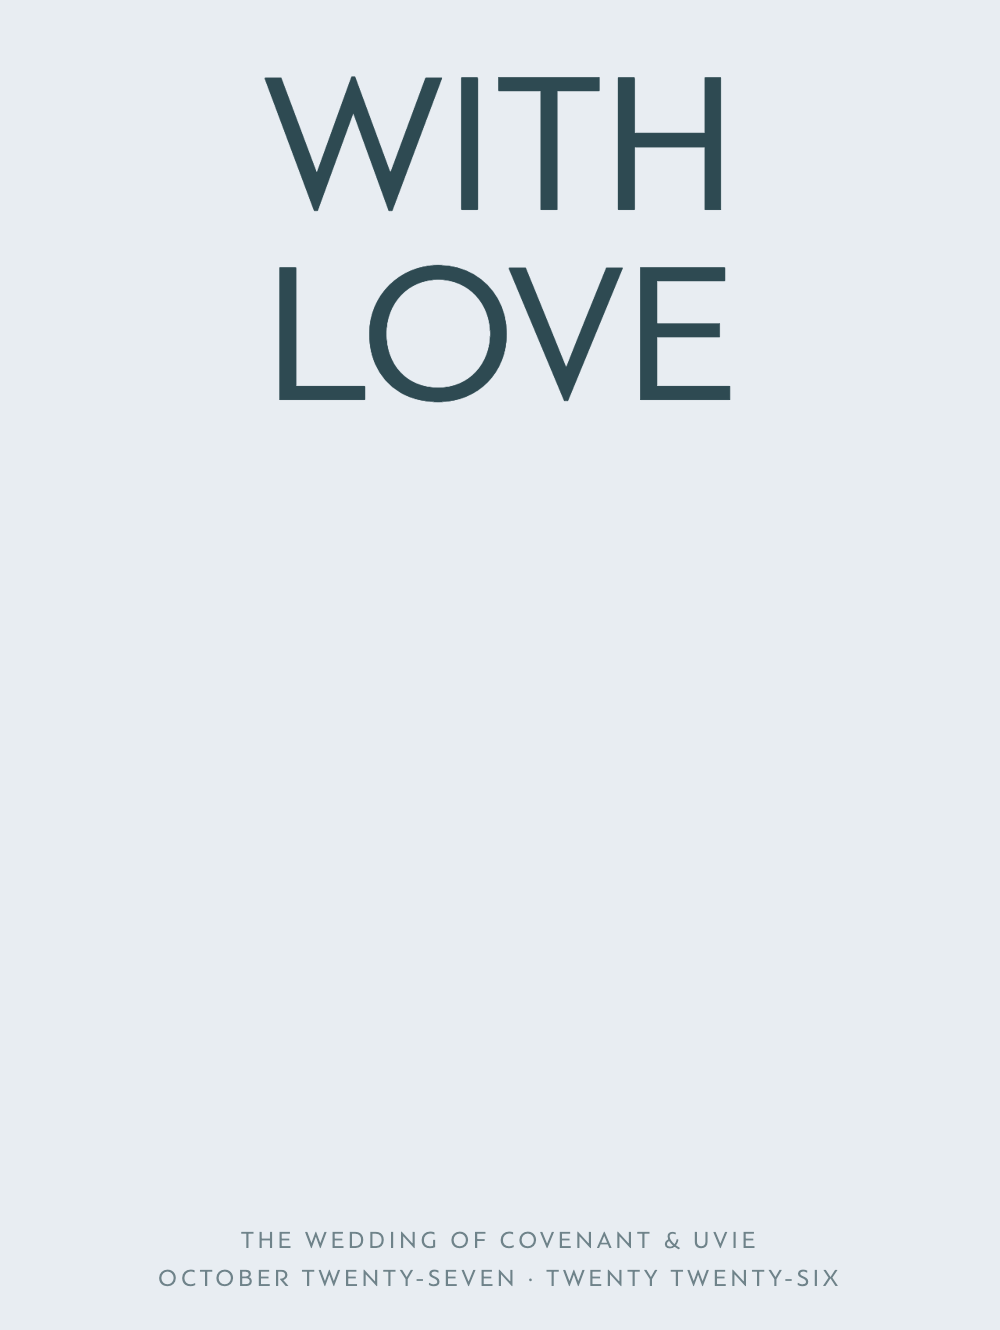
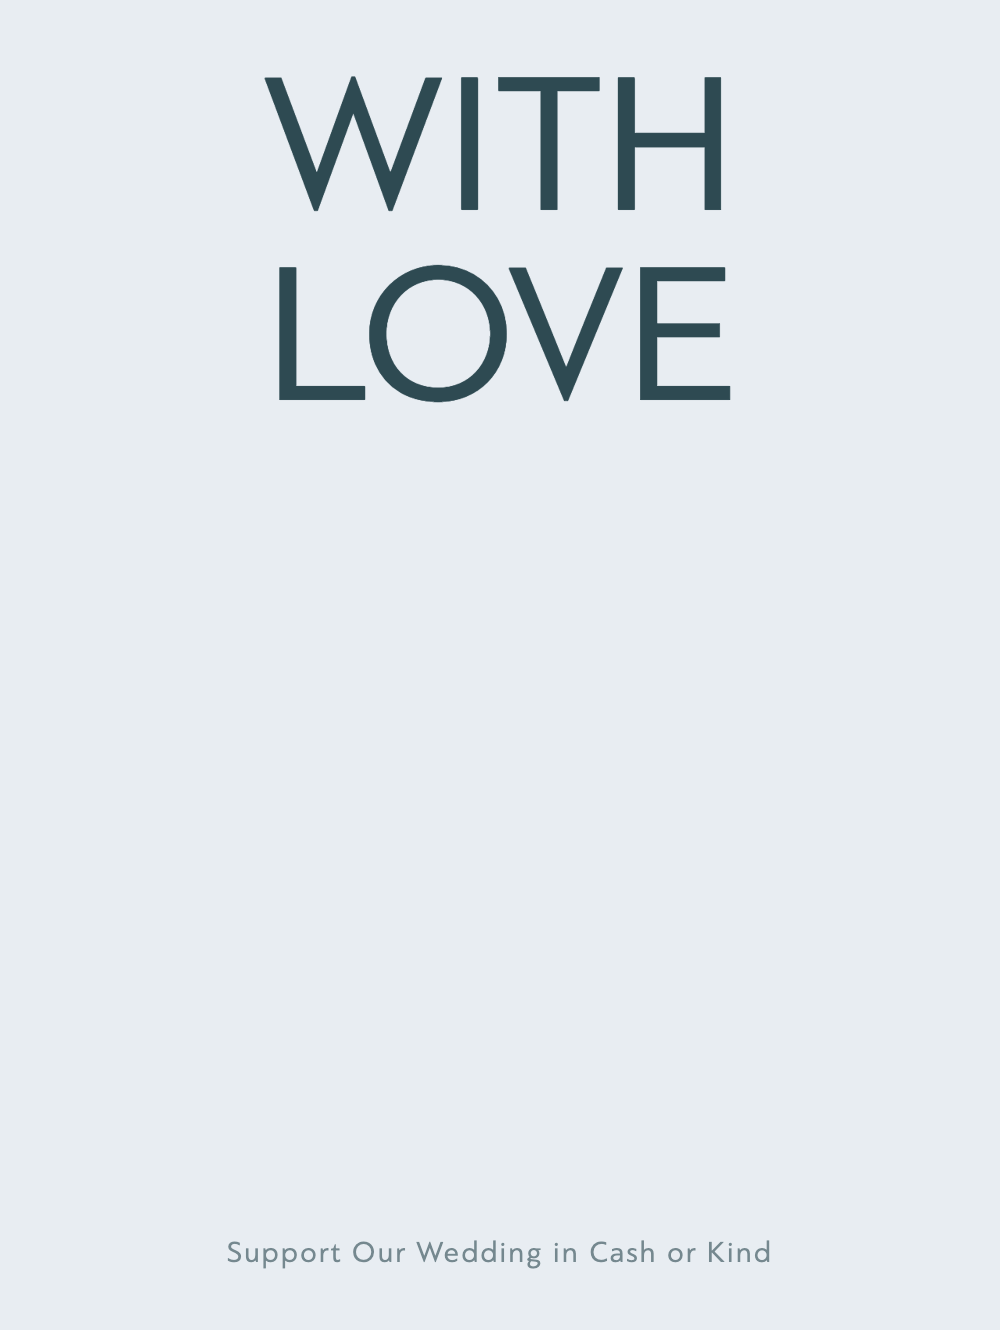
feat(home): card copy that says what each chapter is, and a welcome you can read
Five notes, and three of them turned out to be real bugs rather than tweaks.

"A love story in chapters" is out of the nav. The string stays in site.config.js
because the docs still describe the site that way; nothing renders it.

EVERY CARD FACE CARRIES ITS OWN LINE NOW — Our Journey So Far, Wedding Details:
Times and Dates, Wedding Photos & Videos, Support Our Wedding in Cash or Kind —
and In Frames' centre tagline is MAGICAL MOMENTS: PICTURES & VIDEOS WORTH a
THOUSAND WORDS.

⚠ That change is also how a WRONG DATE came off the homepage. The new line
replaced two generic lines printed on all four cards, the second of which read
"OCTOBER TWENTY-SEVEN · TWENTY TWENTY-SIX" — a date superseded twice over, spelled
out in a style the user had explicitly rejected on the Big Day. It is baked into a
PNG, so every date sweep of the source missed it, and it took opening the card art
to see. Card copy lives in scripts/gen-textures.mjs; re-run it after any copy
change.

⚠ THE WELCOME PANEL SHOWED NOTHING, and it had been open as a LOW-priority issue
since May. --accent and --accentLight both defaulted to the literal keyword gray,
so the panel rendered rgb(128,128,128) on rgb(128,128,128) across the whole
homepage. Two identical values is an invisible element, not a low-contrast one —
it had been graded by how the cause read ("gray-on-gray") rather than by what a
visitor saw, which was an empty screen. The html defaults are the site's real
[…]

Changed region(s): [[0.217, 0.9248, 0.775, 0.9865], [0.806, 0.9556, 0.837, 0.9865], [0.155, 0.9556, 0.186, 0.9865]]

diff --git a/components/SiteNav.vue b/components/SiteNav.vue
@@ -39,19 +39,22 @@
     <!-- Center logo -->
     <div class="!fixed z-20 top-3 w-full pointer-events-none">
       <div class="container flex justify-center mt-2 md:mt-6">
-        <div class="text-center pointer-events-auto" @click="$emit('go-home')">
-          <!-- BRAND WORDMARK — the couple's names (was the Milla Nova vector art). -->
+        <!-- ⚠ `pointer-events-auto` and the click belong to the WORDMARK ONLY, never
+             to this wrapper. The wrapper is as wide as its widest child, and its
+             widest child is the countdown line — "OCTOBER 23 & 29, 2026 · LAGOS ·
+             51 DAYS TO GO" spans ~330px of a 390px phone. Sitting on `top-3` with the
+             same `z-20` as the nav bar but LATER in the DOM, that invisible box was
+             painted over the WELCOME label and swallowed every tap on it: on a phone
+             there was no way into the welcome panel at all. Measured —
+             `elementFromPoint` over WELCOME returned this div, not the nav. -->
+        <div class="text-center">
+          <!-- BRAND WORDMARK — the couple's names. -->
           <div
-            class="wordmark whitespace-nowrap text-[17px] lg:text-[26px]"
+            class="wordmark whitespace-nowrap text-[17px] lg:text-[26px] pointer-events-auto"
             :style="{ color: accentColor }"
+            @click="$emit('go-home')"
           >
             COVENANT <span class="amp">&amp;</span> UVIE
-          </div>
-          <div
-            v-if="isHome"
-            class="text-accent uppercase text-[11px] lg:text-sm tracking-wider mt-1 lg:mt-2"
-          >
-            {{ SITE.subtitle }}
           </div>
           <!-- Countdown (homepage only). Two weddings: it counts to the traditional,
                then rolls over to the white wedding. Times in site.config are placeholders. -->

diff --git a/composables/chapterPages.js b/composables/chapterPages.js
@@ -9,7 +9,9 @@
 //   • IMAGES — reused Milla Nova film stills (right aspect ratios, wrong people).
 //     Swap for the couple's shoots, keeping roughly the same counts per section.
 //     ✅ DONE for the whole US page (2026-08-31 — polaroids AND both popup cards)
-//     and the In Frames reel. ⚠ NOTHING references `/images/gallery/` any more:
+//     and the In Frames reel. ⚠ `/images/gallery/` and `/images/dresses/` were
+//     DELETED on 2026-09-03 — 4.6 MB of the reference site's own photographs,
+//     referenced by nothing but still being deployed at guessable URLs. Originally:
 //     all 3.8 MB of Milla Nova stills there are now unused (kept, not deleted).
 //   • POPUPS — dummy registry items / map links; urls are '#' dead links.
 //

diff --git a/assets/css/main.css b/assets/css/main.css
@@ -18,10 +18,16 @@
 }
 
 /* ===== CSS Variables ===== */
+/* ⚠ These are the SITE's own palette, used whenever no chapter is selected — i.e.
+   the whole homepage. They used to be `gray`, all three of them, which meant the
+   welcome panel rendered gray ink on a gray ground and showed NOTHING (measured:
+   background and colour both `rgb(128,128,128)`). That was AUDIT #16, open since
+   2026-05-29, and it is what the user reported as "the welcome slide in doesn't
+   show anything". A chapter class on `.app-root` still overrides all three. */
 html {
-  --accent: gray;
-  --accentLight: gray;
-  --accentLighter: gray;
+  --accent: #33312C;
+  --accentLight: #F3F1EC;
+  --accentLighter: #C9C4B8;
 }
 
 .--us {

diff --git a/nuxt.config.ts b/nuxt.config.ts
@@ -48,7 +48,8 @@ export default defineNuxtConfig({
         { name: 'viewport', content: 'width=device-width, initial-scale=1, viewport-fit=cover' }
       ],
       link: [
-        { rel: 'icon', href: `${baseURL}images/favicon.ico` },
+        { rel: 'icon', type: 'image/png', href: `${baseURL}images/cu-favicon.png` },
+        { rel: 'apple-touch-icon', href: `${baseURL}images/cu-favicon.png` },
         { rel: 'preconnect', href: 'https://fonts.googleapis.com' },
         { rel: 'preconnect', href: 'https://fonts.gstatic.com', crossorigin: '' },
         { rel: 'stylesheet', href: googleFontsHref() }

diff --git a/site.config.js b/site.config.js
@@ -34,7 +34,9 @@ export const SITE = {
   // switches to that event's own label.
   dateLabel: 'October 23 & 29, 2026 · Lagos',
 
-  // Subtitle shown under the nav wordmark on the homepage.
+  // ⚠ REMOVED from the nav on 2026-09-03 at the user's request — the homepage
+  // wordmark now runs straight into the date and countdown. The string is kept
+  // because `chapterPages`/docs still describe the site this way; nothing renders it.
   subtitle: 'A love story in chapters',
 
   // Document <title>s.

diff --git a/AUDIT.md b/AUDIT.md
@@ -6,7 +6,7 @@
 > Tools: Browserless (Playwright/CDP) against the live prod URL, bundle greps, DOM/computed-style probes.
 
 > **Doc map:** this file is the **forensic issue history** — per-issue root causes, fixes,
-> and commit refs (numbered #1–#31). For orientation start at [`README.md`](README.md);
+> and commit refs (numbered #1–#32). For orientation start at [`README.md`](README.md);
 > how-it-works is [`docs/ARCHITECTURE.md`](docs/ARCHITECTURE.md); live status is
 > [`PROGRESS.md`](PROGRESS.md). The **Priority Order table near the bottom is the quickest
 > index** of every issue and its status.
@@ -693,7 +693,7 @@ live: clicking a card now selects it (fills screen), which in turn unblocked #7.
 
 ---
 
-## Issue #16 — About panel gray-on-gray from homepage 🟢 LOW (found 2026-05-29)
+## Issue #16 — About panel gray-on-gray from homepage 🟠 HIGH (found 2026-05-29, FIXED 2026-09-03)
 
 ### Symptom
 Opening the About panel **from the homepage** (no chapter selected) renders the copy as
@@ -703,17 +703,24 @@ chapter looks correct (the chapter's accent colors apply).
 ### Root Cause
 `AboutPanel` styles use `var(--accent)` (text) and `var(--accentLight)` (background). Those
 vars are only set by the per-chapter body class `--{slug}` (`assets/css/main.css`), which is
-only applied while a chapter is selected. With no chapter active, the `html` defaults apply:
-`--accent: gray; --accentLight: gray;` → gray on gray.
+only applied while a chapter is selected. With no chapter active, the `html` defaults applied —
+and all three defaults were the literal keyword **`gray`**, so the text colour and the panel
+background resolved to the *same* value. Measured on the built site before the fix:
+`background: rgb(128,128,128)`, `color: rgb(128,128,128)`.
 
-Pre-existing (not introduced by the `site.config` work — that only changed the text source).
+### Fix
+The `html` defaults are a real palette now — the site's own ink and ground
+(`--accent: #33312C`, `--accentLight: #F3F1EC`, `--accentLighter: #C9C4B8`) — so the welcome
+panel is legible with no chapter selected, and any other homepage element that reads `--accent`
+gets the site's ink instead of a placeholder grey. A chapter class still overrides all three.
+**Verified on the production build, both viewports:** `rgb(243,241,236)` ground,
+`rgb(51,49,44)` ink.
 
-### Open questions / fix options
-- **First confirm against the original** — does it also mute the About text on the homepage,
-  or does it set a default accent? Match whatever it does.
-- If it's a bug: set sensible non-gray defaults for `--accent` / `--accentLight` on `html`
-  (e.g. a neutral dark text on light bg), or give the About overlay its own default colors
-  independent of the chapter accent.
+⚠ **This sat open for three months as 🟢 LOW because the summary said "gray-on-gray", which
+sounds like a contrast nit.** It was not: the welcome panel — the site's introduction, one of
+three things in the nav — showed *nothing at all*. The user reported it as "the welcome slide
+in doesn't show anything". Two identical values is an invisible element, not a low-contrast one;
+grade it by what a visitor sees, not by how the cause reads.
 
 ---
 
@@ -1104,6 +1111,33 @@ no `pathLength`, and an authored `stroke-dasharray: 430`. The trap needs the non
 
 ---
 
+## Issue #32 — No way into the welcome panel on a phone 🟠 HIGH (2026-09-03)
+
+### Symptom
+Found while verifying the fix for #16 on mobile: the welcome panel opened on desktop but tapping
+**WELCOME** on a 390px phone did nothing at all. No error, no flicker — the tap simply went
+somewhere else.
+
+### Root cause
+**An invisible wrapper, as wide as its widest child.** The centre wordmark block carries
+`pointer-events-auto` and the `go-home` click on a `div` that wraps *both* the wordmark **and the
+countdown line** — and that line reads `OCTOBER 23 & 29, 2026 · LAGOS · 50 DAYS TO GO`, roughly
+330px of a 390px screen. The block is `!fixed top-3` with the same `z-20` as the nav bar but comes
+**later in the DOM**, so its box was painted straight over the WELCOME label at the top left.
+Measured: `elementFromPoint` over WELCOME returned `DIV.text-center.pointer-events-auto`, not the
+nav item. Every tap on WELCOME was firing `go-home` instead.
+
+⚠ It could not happen on desktop, where the same line is a small fraction of a 1440px viewport and
+never reaches the left edge. The countdown only became long enough to cause it when the date changed
+to **two** weddings — a copy change breaking a hit target three components away.
+
+### Fix
+`pointer-events-auto` and the click handler moved onto the **wordmark itself**; the wrapper and the
+countdown are inert. **Verified on the production build at 390×844:** `elementFromPoint` over
+WELCOME now returns the label's own `SPAN`, and the panel opens on tap.
+
+---
+
 ## Updated Priority Order (as of 2026-05-27)
 
 | # | Issue | Priority | Status |
@@ -1123,7 +1157,8 @@ no `pathLength`, and an authored `stroke-dasharray: 430`. The trap needs the non
 | ~~6~~ | ~~Background card opacity falloff~~ | ~~🟢 Low~~ | ✅ Fixed (`26ee0406` + `52b8cf9b`) — `uOpacity` uniform driven by per-card distance to camera (smoothstep 95→125, floor 0.2); far cards now faint ghosts like the original. Verified live. |
 | ~~7~~ | ~~Scroll-driven chapter exit~~ | ~~🟢 Low~~ | ✅ Fixed (`bcc9b342`) — back-scroll past threshold runs the reverse animation via `onScroll`; `onDeselect` callback resets app state. Verified live. |
 | ~~15~~ | ~~Chapter selection broken — hit layer click-transparent~~ | 🔴 High | ✅ Fixed (`bbedb5ec`) — `#canvas-hit-layer` inherited `pointer-events:none`; clicks fell through to `.app-root` so `@click` never fired. Set `pointer-events:auto`. Found while verifying #7; verified live (clicking now selects). |
-| 16 | About panel gray-on-gray when opened from homepage | 🟢 Low | Open (found 2026-05-29) — pre-existing; accent CSS vars default to `gray` until a chapter is selected. See §Issue #16. |
+| ~~16~~ | ~~About panel gray-on-gray when opened from homepage~~ | ~~🟠 High~~ | ✅ **Fixed 2026-09-03** — both vars resolved to the literal `gray`, so the welcome panel showed NOTHING. The `html` defaults are the site's real palette now. Mis-graded 🟢 Low for three months. See §Issue #16. |
+| ~~32~~ | ~~No way into the welcome panel on a phone~~ | ~~🟠 High~~ | ✅ Fixed 2026-09-03 — the centre wordmark block's `pointer-events-auto` wrapper is as wide as the countdown line and was painted over the WELCOME label, swallowing every tap. Moved onto the wordmark itself. See §Issue #32. |
 | ~~17~~ | ~~Every image 404s on GitHub Pages — `import.meta.env.BASE_URL` is `'./'` in Nuxt production builds~~ | ~~🔴 High~~ | ✅ Fixed (`67693fd3`) — baked via `vite.define.__APP_BASE__`, one helper `utils/asset.js`. Verified on both hosts. See §Issue #17. |
 | ~~18~~ | ~~Template ref inside `v-for` is an array → threw on frame 1 → killed the whole rAF loop~~ | ~~🔴 High~~ | ✅ Fixed (`5d19b9e7`) — query the DOM inside `tick()`. See §Issue #18. |
 | ~~19~~ | ~~`loading="lazy"` cut-outs are 0px tall until decode, collapsing the page layout~~ | ~~🟡 Medium~~ | ✅ Fixed (`8f60e207`) — eager + reserved `aspect-ratio` + page `min-height`. See §Issue #19. |

diff --git a/docs/PHASE-2-INNER-PAGES.md b/docs/PHASE-2-INNER-PAGES.md
@@ -231,6 +231,38 @@ folder - pictures coming soon."*
   copy correct, the scrim covers the nav corner, close by X / outside tap / Escape all work, focus
   moves to the close button and back, no horizontal overflow, 0 console errors.
 
+**▶▶ STATE (2026-09-03, latest) — THE HOMEPAGE: CARD COPY, THE WELCOME PANEL, AND THE LAST OF THE
+REFERENCE SITE.**
+- **"A love story in chapters" is gone** from the nav. The string stays in `site.config.js` because
+  the docs still describe the site that way; nothing renders it.
+- **Every card face carries its own line now** — *Our Journey So Far* · *Wedding Details: Times and
+  Dates* · *Wedding Photos & Videos* · *Support Our Wedding in Cash or Kind* — and In Frames' centre
+  tagline is *MAGICAL MOMENTS: PICTURES & VIDEOS WORTH a THOUSAND WORDS*.
+  - ⚠⚠ **This is how a WRONG DATE survived on the homepage for weeks.** The `sub` line replaced
+    two generic lines printed on all four cards, the second of which read `OCTOBER TWENTY-SEVEN ·
+    TWENTY TWENTY-SIX` — a date superseded twice over, spelled out in a style the user had
+    explicitly rejected on the Big Day. It is **baked into a PNG**, so every date sweep of the
+    source missed it. Card copy lives in `scripts/gen-textures.mjs`; re-run it after any copy change.
+- ⚠⚠ **THE WELCOME PANEL SHOWED NOTHING, and it had been open as 🟢 LOW since May** (AUDIT #16).
+  `--accent` and `--accentLight` both defaulted to the literal keyword `gray`, so the panel rendered
+  `rgb(128,128,128)` on `rgb(128,128,128)` across the entire homepage. Two identical values is an
+  invisible element, not a low-contrast one — it was graded by how the cause read rather than by
+  what a visitor saw. The `html` defaults are the site's real palette now.
+- ⚠⚠ **AND ON A PHONE THERE WAS NO WAY IN AT ALL** (AUDIT #32), found only because the fix above
+  was checked on mobile. The centre wordmark block puts `pointer-events-auto` on a wrapper around
+  the wordmark **and the countdown**, and once the date became two weddings that line grew to ~330px
+  of a 390px screen — an invisible hit target painted straight over the WELCOME label, swallowing
+  every tap into `go-home`. A copy change broke a control three components away. Moved onto the
+  wordmark itself.
+- **The last of the reference site is out of the deploy:** `images/gallery/` (3.8 MB of its stills),
+  `images/dresses/` (848 KB), `logo.png` (its literal wordmark) and `favicon.ico` (its four-pointed
+  star, and what every visitor saw in their tab). The favicon is the couple's ampersand now,
+  generated alongside the card art. `package.json` no longer calls itself `millanova-replica`.
+  **Verified: zero occurrences of "millanova"/"milla nova" anywhere in `.output/public`.**
+- **Prod-build verified at 1440×900 and 390×844**: no subtitle, welcome panel opens and is legible
+  on both (ground `rgb(243,241,236)`, ink `rgb(51,49,44)`), `elementFromPoint` over WELCOME returns
+  its own span, zero failed requests, no horizontal overflow, 0 console errors.
+
 **▶▶ STATE (2026-09-03, latest) — THE BIG DAY: BOTH DAYS AT ONCE, AND A REAL MAP.**
 User: *"Maybe put the details side by side rather than switch on hover… the 29th one looks broken…
 replace the entire good to know section with a map showing two addresses… Better if we can also use

diff --git a/docs/CONTENT-AND-ASSETS.md b/docs/CONTENT-AND-ASSETS.md
@@ -14,7 +14,11 @@
 > **✅ The IN FRAMES reel photos are the couple's own too** (2026-08-11) — `public/images/reel/`.
 > **✅ The whole US page is the couple's own** (2026-08-31) — `public/images/us/`: three 900px
 > verticals for the polaroids + two 400px thumbs for its popup cards, all from `new frames/`.
-> ⚠ That leaves **`images/gallery/` referenced by nothing at all** — see below.
+> ✅ **DELETED 2026-09-03: `images/gallery/` (3.8 MB) and `images/dresses/` (848 KB)** — the
+> reference site's own photographs, referenced by nothing but still being deployed at guessable
+> URLs. `favicon.ico` (its four-pointed star) and `logo.png` (its literal wordmark) went with them;
+> the favicon is now `cu-favicon.png`, generated by `scripts/gen-textures.mjs`. Descriptions of the
+> old dress/gallery model further down are historical.
 > ⚠ **US copy is now length-constrained (2026-09-02).** The page is written in a script hand, word
 > by word off the scroll, so `body` is capped at **~3 short sentences per scene**: handwriting runs
 > ~1.4× the height of the old sans at the same measure, and every word costs scroll travel. `date`
@@ -97,15 +101,12 @@ public/
 │   ├── cu-p1.png … cu-p4.png    Poster artwork — the card faces (generated; `cu-p*.svg` = sources)
 │   ├── cu-txt1.png … cu-txt4.png  Floating center-text art (the per-chapter tagline)
 │   ├── cu-logo.png              The C&U wordmark rendered into the shader (⚠ alpha = accent mask)
-│   ├── logo.png                 Legacy Milla Nova logo (unused by the scene)
 │   ├── noise.png                Film-grain overlay (animated via body::after) — 792 KB
 │   ├── us/                      US polaroids — the couple's own (900px verticals)
 │   ├── reel/                    In Frames — the couple's own: `proj-*` = the 9 PRINTS (the page's
 │   │                            subject); `*-sm` = the 5 thumbs on the background spools
 │   ├── registry/                With Love item art — ONE watermarked clipart placeholder
-│   ├── gallery/                 ⚠ DEAD (3.8 MB) — Milla Nova stills; nothing references them now
-│   ├── dresses/                 ⚠ DEAD (848 KB) — the dress popups were retired in the pivot
-│   └── favicon.ico              ⚠ still Milla Nova's
+│   ├── cu-favicon.png           Browser-tab mark — the ampersand (replaced the reference's star)
 ├── video/
 │   ├── us.mp4                   Chapter films — the couple's own, played as VideoTexture
 │   ├── the-big-day.mp4          on hover/select. 900×1200, silent, H.264. ~0.6–3.2 MB each.

diff --git a/docs/ARCHITECTURE.md b/docs/ARCHITECTURE.md
@@ -276,6 +276,21 @@ style, so the Big Day **tints its iframes with a CSS `filter`** into the chapter
 the only way to make a third-party map belong to a page like this without a key. Derive every URL
 from ONE place string on the data, so a pin, a route and a link cannot disagree.
 
+⚠ **`pointer-events: auto` belongs on the thing you can click, never on a wrapper.** A wrapper
+is as wide as its WIDEST child, and that child is rarely the button. The homepage's centre block
+put the hit area on a `div` wrapping the wordmark *and* the countdown line — and once the date
+became two weddings, `OCTOBER 23 & 29, 2026 · LAGOS · 50 DAYS TO GO` grew to ~330px of a 390px
+phone, painting an invisible click target straight over the WELCOME label in the nav. Every tap
+fired `go-home` instead, and there was no way into the welcome panel on a phone at all. Desktop
+could never show it. **A copy change broke a hit target three components away** — which is why the
+check is `elementFromPoint` over each control, not a look at the screenshot. (AUDIT #32.)
+⚠ **Two CSS variables resolving to the same value is an INVISIBLE element, not a low-contrast
+one.** `--accent` and `--accentLight` both defaulted to the keyword `gray`, so the welcome panel
+rendered `rgb(128,128,128)` on `rgb(128,128,128)` on the whole homepage. It sat open for three
+months graded 🟢 Low as "gray-on-gray", which sounds like a contrast nit; what a visitor actually
+saw was an empty screen. The `html` defaults are the site's real palette now — treat a placeholder
+keyword in a shipped variable as a bug, not a default. (AUDIT #16.)
+
 ⚠ **A `vh`-only top padding cannot guarantee clearance of the fixed site nav.** The nav is ~88px
 tall regardless of viewport height, so `padding-top: 9vh` is 81px at 900px and less on anything
 shorter. It went unnoticed for as long as the Big Day's content was *shorter* than its section:

diff --git a/scripts/README.md b/scripts/README.md
@@ -12,6 +12,7 @@ Regenerates every generated texture the WebGL scene uses, into `public/images/`:
 | `cu-p1..4.png` | The same faces **rendered to PNG** — this is what the scene loads. |
 | `cu-txt1..4.png` | The centre **tagline** art (2048×2048, transparent). |
 | `cu-logo.png` | The nav/card **wordmark** (480×480, transparent). |
+| `cu-favicon.png` | The **browser-tab mark** (180×180) — the ampersand, on the site's ground. Replaced the reference site's star `favicon.ico`, deleted 2026-09-03. |
 
 ```bash
 node scripts/gen-textures.mjs        # or:  npm run gen:textures
@@ -22,8 +23,13 @@ devDependency (already in `package.json`). The three Google-font subsets live in
 `scripts/fonts/`; Bague comes from `public/fonts/Bague.woff`.
 
 ### Editing the palette / copy
-The chapter **colours** (`bg`/`ink`) and **titles/taglines** are the `CH` array at the top of
-`gen-textures.mjs`. Colours MUST stay in sync with:
+The chapter **colours** (`bg`/`ink`), **titles**, **taglines** and the **`sub`** line are the `CH`
+array at the top of `gen-textures.mjs`. `title` is the big name on the card; `sub` is the line
+underneath it saying what the chapter is; `tagline` is the centre art that swaps in on hover.
+⚠ **Card copy is baked into PNGs, so grepping the source will never find it.** The `sub` line
+replaced two generic lines that had been carrying `OCTOBER TWENTY-SEVEN · TWENTY TWENTY-SIX` on all
+four cards long after the couple confirmed the 23rd and the 29th — a wrong date on the homepage that
+only opening the card art would reveal. Re-run this script after ANY copy or date change. Colours MUST stay in sync with:
 - `CHAPTERS` in `composables/useChapterScene.js` (`accent` = `ink`, `accentLight` = `bg`)
 - the `.--{slug}` custom properties in `assets/css/main.css`
 

diff --git a/README.md b/README.md
@@ -86,6 +86,10 @@ is that no two pages share a language. Breaking it is what made With Love fail i
   **cluster-unfurl outro** (user-approved). Both reversible.
 - ✅ **Mobile / touch** — swipe + momentum, tap-vs-swipe guard, parked EXPLORE button, portrait
   geometry fixes; the homepage refinements are device-verified.
+- ✅ **Homepage card copy** — each card face carries what its chapter is (*Our Journey So Far*,
+  *Wedding Details: Times and Dates*, *Wedding Photos & Videos*, *Support Our Wedding in Cash or
+  Kind*). ⚠ That text is **baked into generated PNGs** (`scripts/gen-textures.mjs`), so grepping
+  the source will never find it — re-run the script after any copy or date change.
 - ✅ **Wedding colour palette** — one hue family per chapter (US beige/chocolate · Big Day sage/olive ·
   In Frames lavender/purple · With Love dusty-blue/teal). Card art is **generated**:
   `npm run gen:textures` (see [`scripts/README.md`](scripts/README.md)).
